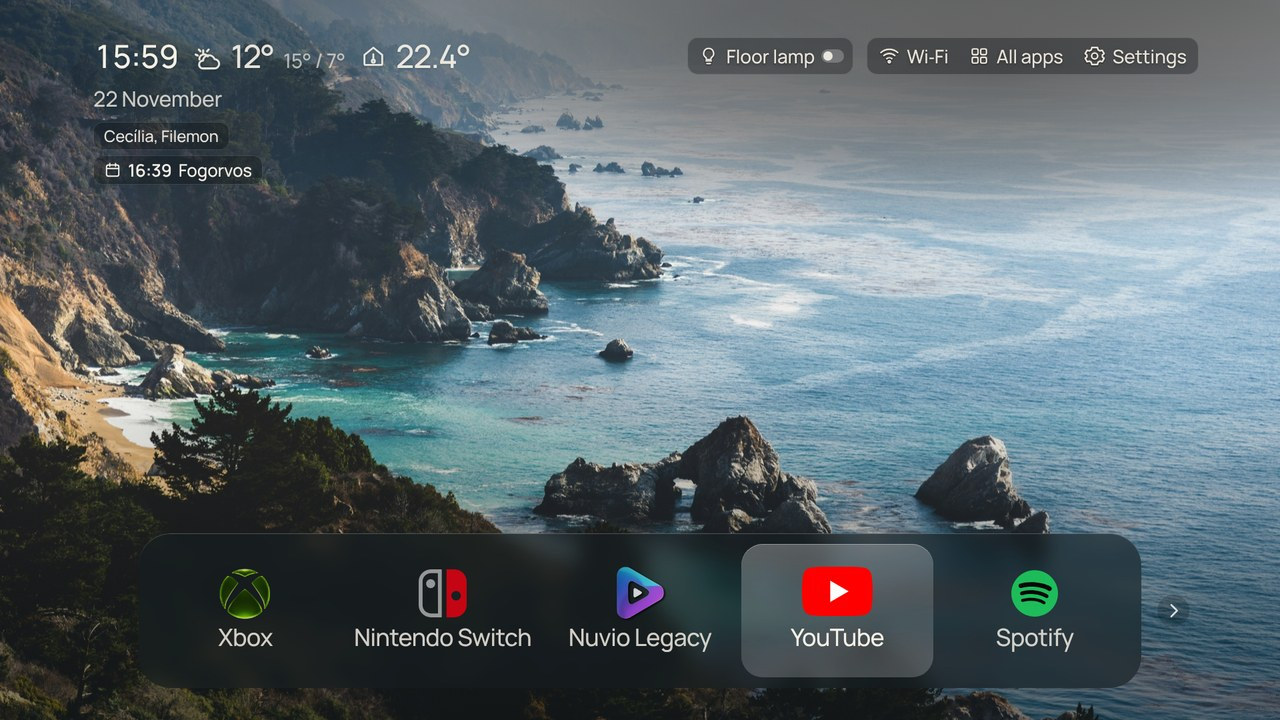
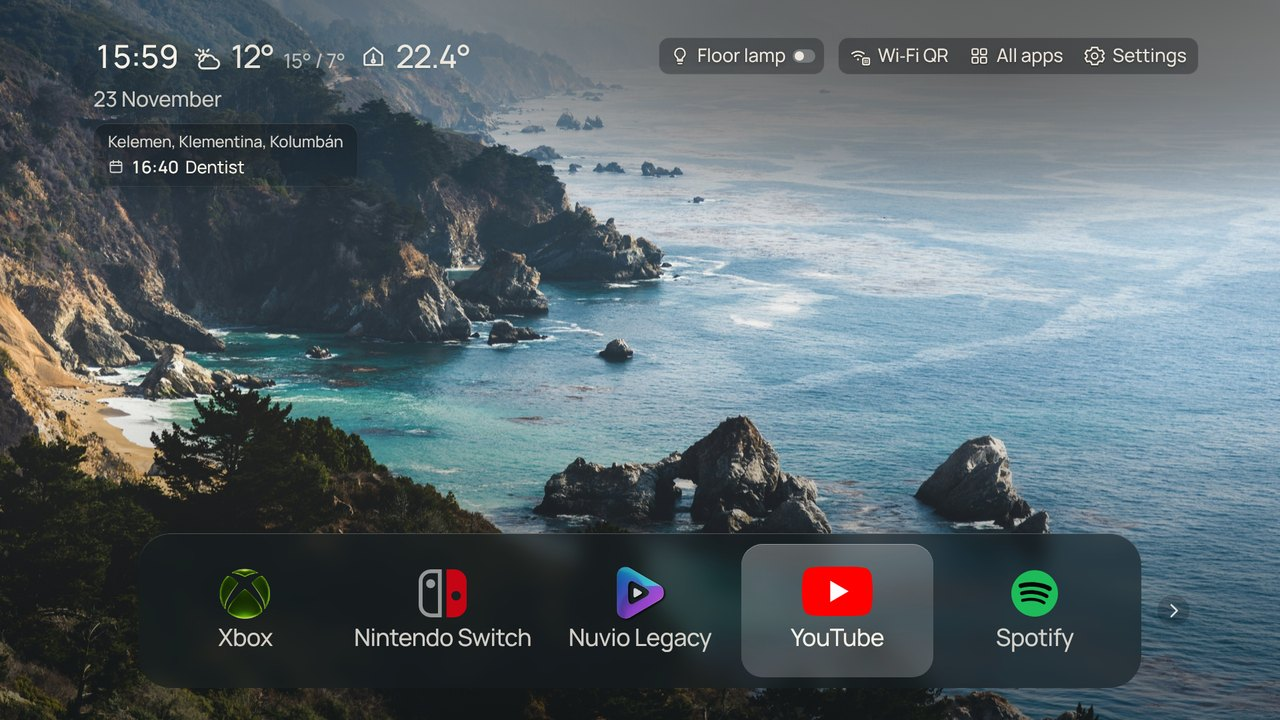
Docs: 0.33 screenshots and README for Settings and calendars
New README screenshots (two named calendars in the day panel, the
three-column Settings overview, the Dock layout with the panel), the
calendar text for up to three named calendars, Date and time instead of
Language and clock, and which pages keep the live preview.

Claude-Session: https://claude.ai/code/session_01VGKSZqQFEEKRXry9Umxzct

diff --git a/README.md b/README.md
@@ -4,9 +4,9 @@
 
 A quieter home screen for Samsung TVs. Your apps, a photograph, the time and the weather, with an interface made for the TV remote.
 
-![Frame Home: the top Dock bar with the song on the left and five Alexa switches and icon-only controls on the right, a thin centred clock with seconds, the date, weather and indoor temperature, name days and a calendar event on small cards, and the Modern dock at the bottom with icons and names side by side](docs/images/frame-home-home.jpg)
+![Frame Home: the top Dock bar with the song on the left and five Alexa switches and icon-only controls on the right, a thin centred clock with seconds, the date, weather and indoor temperature, one glass panel with today's name days and events from two named calendars, and the Modern dock at the bottom with icons and names side by side](docs/images/frame-home-home.jpg)
 
-*Top Dock bar, thin 24-hour clock with seconds, name days and a calendar event, and the Modern dock with icons and names. Rendered in the browser preview on the Desert stars wallpaper with sample Spotify, Alexa and calendar data.*
+*Top Dock bar, thin 24-hour clock with seconds, one panel with name days and events from two calendars (each marked with its name and colour), and the Modern dock with icons and names. Rendered in the browser preview on the Desert stars wallpaper with sample Spotify, Alexa and calendar data.*
 
 This repo uses [Nathan Clark's CleanFrame](https://github.com/nthnclrk/CleanFrame) as a base and changes it to suit my Samsung TV (**Frame Home**, its own app identity). It is still evolving; upstream remains the better reference for a general-purpose project.
 
@@ -14,7 +14,7 @@ This repo uses [Nathan Clark's CleanFrame](https://github.com/nthnclrk/CleanFram
 
 | Settings | Dock layout |
 | --- | --- |
-| ![Settings as a grid of nine cards](docs/images/frame-home-settings.jpg) | ![Dock layout: one glass shelf with colour icons and names, the corner clock with weather and indoor temperature, the date, name days and a calendar event, and the top-row cards](docs/images/frame-home-dock.jpg) |
+| ![Settings: three equal columns, Personalization, Home and time, and System, each with three cards](docs/images/frame-home-settings.jpg) | ![Dock layout: one glass shelf with colour icons and names, the corner clock with weather and indoor temperature, the date, a glass panel with name days and a calendar event, and the top-row cards](docs/images/frame-home-dock.jpg) |
 
 ## What it does
 
@@ -27,7 +27,7 @@ This repo uses [Nathan Clark's CleanFrame](https://github.com/nthnclrk/CleanFram
 - **Alexa.** Up to three readings (temperature, humidity) beside the clock, up to four switches among the Home controls (six with the top Dock bar), named groups of lights, and remote buttons assigned to a light or a group. Works with any device in your Alexa app, including Matter devices paired to an Echo (see below).
 - **Remote buttons.** The red, green, yellow and blue buttons, CH +, CH − and Guide can each switch a light or group, control Spotify or open any app. A row of chips above the apps shows what they do.
 - **Back to Home.** Coming back to Frame Home from another app always lands on the Home screen with the apps focused. While Frame Home is already open, the TV does not tell the app that its Home button was pressed (checked with the remote test), so that button cannot close open panels; a remote button set to **Home screen** can.
-- **Settings.** Three equal columns of three equal cards (Personalization: Background, Layout, Style; Home and time: Apps on Home, Wi‑Fi QR, Date and time; System: Language, Connections, Samsung Home), made for arrow keys; inside, each page is a set of cards with one row per setting (OK opens a short list of its choices over the rows below). Each group (Background, Layout, Typography, Focus, Apps on Home, Language and clock, Wi‑Fi QR, Connections for Alexa, Spotify and the remote buttons) shows its choices beside a live Home preview. The last card opens Samsung's Home screen.
+- **Settings.** Three equal columns of three equal cards (Personalization: Background, Layout, Style; Home and time: Apps on Home, Wi‑Fi QR, Date and time; System: Language, Connections, Samsung Home), made for arrow keys; inside, each page is a set of cards with one row per setting (OK opens a short list of its choices over the rows below). Background, Layout, Style and Date and time show their choices beside a live Home preview. The last card opens Samsung's Home screen.
 - **English or Hungarian** interface, switchable at any time.
 
 The glass and blur are rendered ahead of time. The TV loads the finished images and uses transforms and opacity for focus feedback; nothing is blurred live while you navigate.
@@ -74,11 +74,11 @@ Settings → **Connections** → **Spotify** → **Connect Spotify** shows a QR 
 
 ## Date details
 
-Settings → Language and clock → **Date details** (they also show when the date itself is off):
+Settings → Date and time → **Date details** (they also show when the date itself is off):
 
 - **Hungarian holidays** add today's public holiday after the date, from the public [Nager.Date](https://date.nager.at) API (`/api/v3/PublicHolidays/<year>/HU`). Each year is fetched once and kept on the TV. It lists public holidays only, not observances or working-day swaps.
 - **Name days** show up to three of today's Hungarian name days. The holiday, the name days and the calendar events share one soft glass panel under the date, as tall as its lines and hidden when empty. The list is bundled with the app (data from the npm package [nevnap](https://github.com/nevadavid/nevnap), MIT), so nothing is fetched. In leap years 24–28 February move one day later, as in the Hungarian calendar.
-- **Calendar** shows today's next (at most two) events, or tomorrow's when today has none left. **Connect calendar** shows a QR code; the [calendar page](docs/calendar/index.html) explains, on the phone, where to copy the calendar's secret iCal address: Google Calendar → Settings → the calendar → *Secret address in iCal format*; Outlook.com → Settings → Calendar → Shared calendars → *Publish a calendar* → ICS link. The phone apps do not show this address, so on a phone the page asks for the desktop site of calendar.google.com or outlook.com in the browser. The page encrypts the address with a key that only the QR code carries and sends it through ntfy.sh; the TV decrypts it, keeps it apart from the preferences and reads the calendar every 15 minutes. No sign-in or password is involved, but anyone who has the secret address can read the calendar, so Up to three calendars can be connected (for example yours and a partner's): each gets a name in Date details → Calendars, and with more than one, every event on Home carries its calendar's name and colour. **Disconnect this calendar** forgets one on the TV and the address can be reset in Google or Outlook. Google may take several hours to show changes in the secret address feed. Recurring events support the common rules (daily, weekly by weekday, monthly by day or weekday, yearly, with interval, count, end date and exceptions).
+- **Calendar** shows today's next (at most three) events, or tomorrow's when today has none left. **Connect calendar** shows a QR code; the [calendar page](docs/calendar/index.html) explains, on the phone, where to copy the calendar's secret iCal address: Google Calendar → Settings → the calendar → *Secret address in iCal format*; Outlook.com → Settings → Calendar → Shared calendars → *Publish a calendar* → ICS link. The phone apps do not show this address, so on a phone the page asks for the desktop site of calendar.google.com or outlook.com in the browser. The page encrypts the address with a key that only the QR code carries and sends it through ntfy.sh; the TV decrypts it, keeps it apart from the preferences and reads the calendar every 15 minutes. No sign-in or password is involved, but anyone who has the secret address can read the calendar, so **Disconnect this calendar** forgets it on the TV and the address can be reset in Google or Outlook. Up to three calendars can be connected (for example yours and a partner's): **Add another calendar** pairs the next one from the phone and asks for its name; Date details → **Calendars** lists them, and OK on one renames or disconnects it. With more than one, every event on Home carries its calendar's name and colour. Google may take several hours to show changes in the secret address feed. Recurring events support the common rules (daily, weekly by weekday, monthly by day or weekday, yearly, with interval, count, end date and exceptions).
 
 ## Configure
 

diff --git a/docs/interaction-behaviour.md b/docs/interaction-behaviour.md
@@ -137,7 +137,7 @@ Language and clock ends with a one-line **Date details** entry (its summary list
 
 Every item in the top row is a card on dark glass: each Alexa switch, one shared card for Wi‑Fi, All apps and Settings, and the song widget (which always has its card, focused or not). Focus looks the same on all of them: lighter glass and a 3 px bright ring, with no moving lens. With the clock in the centre the song card sits at the top left, its top edge level with the other cards (56 px from the top) and its left edge 112 px in, mirroring the controls on the right.
 
-In Tiles, Settings → Focus applies: **Glass** turns the focused tile into lighter glass with a soft bright edge, shaped by the Material choice (Soft: even light glass; Frost: brighter at the top; Clear tint: clearer glass with a stronger edge); **Type** keeps the tile dark, rings it and dims the other tiles' icons and names.
+In Tiles, the Focus card (Settings → Style since 0.32) applies: **Glass** turns the focused tile into lighter glass with a soft bright edge, shaped by the Material choice (Soft: even light glass; Frost: brighter at the top; Clear tint: clearer glass with a stronger edge); **Type** keeps the tile dark, rings it and dims the other tiles' icons and names.
 
 ## Spotify devices
 
@@ -145,7 +145,7 @@ In Now playing, Up from the progress bar (or from the buttons when there is no p
 
 ## Top bar: Separate widgets or Dock
 
-Settings → Layout → Top bar → **Style**. **Separate widgets** is the card row described above. **Dock** draws one glass bar across the full width of the screen at the top edge (152 px tall; light glass on a light background). Inside it the song card sits on the left (always there, even with the corner clock) and the Alexa switches and Wi‑Fi, All apps and Settings sit on the right as separate tiles, each as tall as the song card (120 px): icon above name, names only or icons only (120 x 120), as set for each group; a switch shows its small toggle under the name and glows warm while on. Focus is the same ring on lighter glass. The corner clock and its lines move below the bar, and the centred clock starts lower. Navigation is unchanged: Up from the apps enters the controls, Left from the first one reaches the song.
+Settings → Layout → Top bar → **Style**. **Separate widgets** is the card row described above. **Dock** draws one glass bar across the full width of the screen at the top edge (152 px tall). Inside it the song card sits on the left (always there, even with the corner clock) and the Alexa switches and Wi‑Fi, All apps and Settings sit on the right as separate tiles, each as tall as the song card (120 px): icon above name, names only or icons only (120 x 120), as set for each group; a switch shows its small toggle under the name and glows warm while on. Focus is the same ring on lighter glass. The corner clock and its lines move below the bar, and the centred clock starts lower. Navigation is unchanged: Up from the apps enters the controls, Left from the first one reaches the song.
 
 ## Tiles shadow
 
@@ -221,4 +221,5 @@ The Light background is removed with its styles; Photo and Dark remain.
 - **Settings overview**: three equal columns that fill the width, each a framed group of three equal wide cards (picture or icon left, name and value right): Personalization (Background, Layout, Style), Home and time (Apps on Home, Wi‑Fi QR, Date and time), System (Language, Connections, Samsung Home). Up/Down move within a column; Left/Right go to the same place in the next column.
 - **Day panel** under the date and weather: one glass panel with a soft top-to-bottom gradient, as tall as its lines: the Hungarian holiday (warm, with a dot), the name days, a TOMORROW heading when the events are tomorrow's, then up to three events. It is not drawn when there is nothing to show. The holiday is no longer on the date line.
 - **More calendars**: up to three (stored as `{ cals: [{ id, url, name }] }`; a 0.22 single address is read as the first). Date details → Calendars lists them; OK on one opens Name (on-screen keyboard, up to 16 characters) and Disconnect this calendar; **Add another calendar** pairs one more from a phone, and when it is the second or third the name keyboard opens after Done. With more than one calendar each event row starts with a coloured dot (blue, pink, green) and the calendar's name; unnamed ones read "Calendar 2" and so on.
+- **Live preview** beside the settings: Background, Layout, Style, Date and time and Date details. The other pages (Wi‑Fi QR, Connections, Alexa, Spotify, Rotation) use the full width.
 
